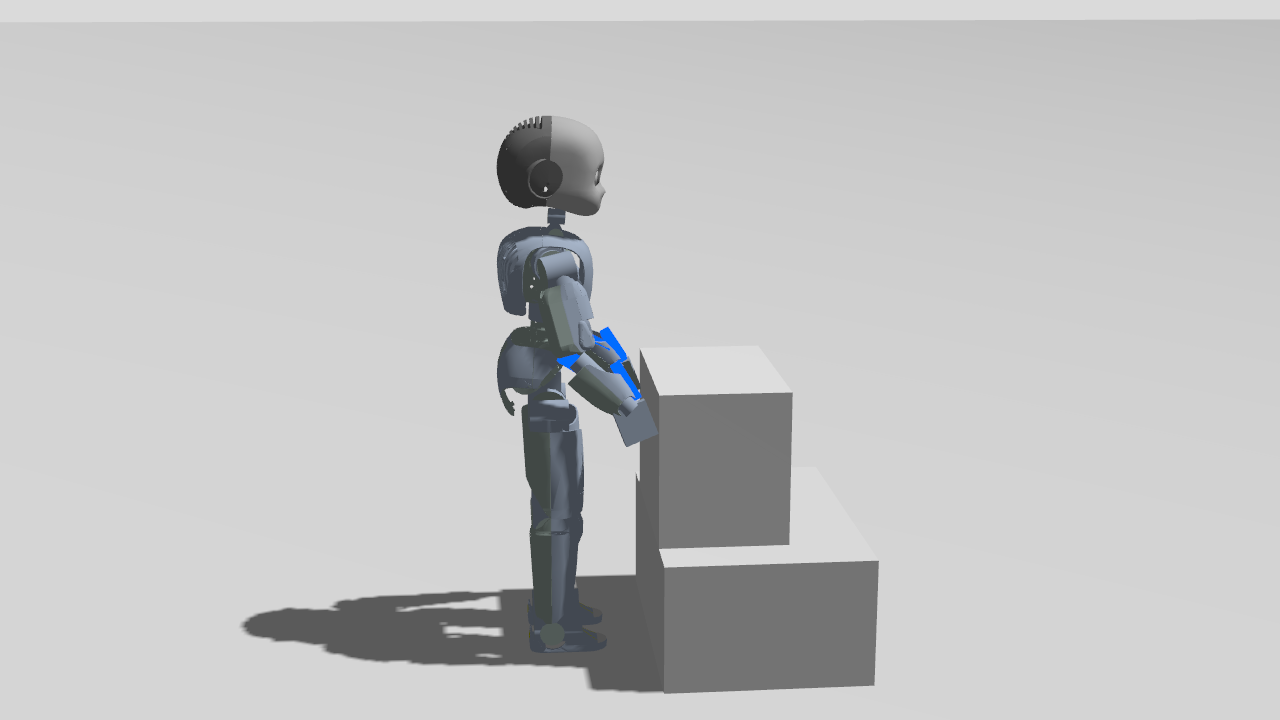
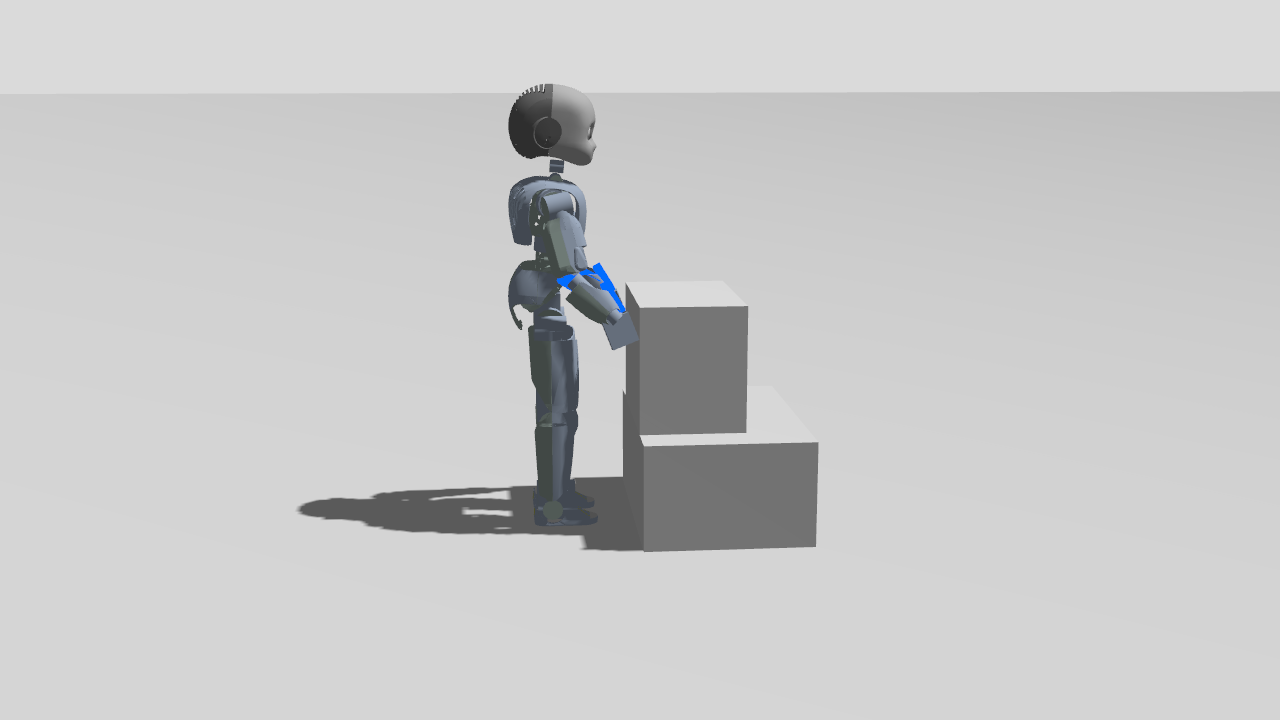
Fix release grasp video recording and add duration verification
The v2.1 release video was 0.04s (2 frames) because the camera recorder used
sim time while headless physics advanced slowly. Record with wall-clock time,
widen the side camera for full-body framing, and fail the release pipeline
unless the MP4 is at least 10s with visible contact-force arrows during HOLD.

Changed region(s): [[0.1875, 0.1222, 0.6875, 0.9778], [0.75, 0.0306, 1.0, 0.0917]]

diff --git a/scripts/verify_release_video.py b/scripts/verify_release_video.py
@@ -1,0 +1,146 @@
+#!/usr/bin/env python3
+"""Fail unless a release grasp video shows a full-duration, in-sim demo."""
+
+from __future__ import annotations
+
+import argparse
+import json
+import subprocess
+import sys
+import tempfile
+from pathlib import Path
+
+import numpy as np
+from PIL import Image
+
+MIN_DURATION_SECONDS = 10.0
+MIN_FRAME_COUNT = 200
+MIN_FILE_BYTES = 100_000
+MIN_HOLD_BLUE_PIXELS = 80
+
+
+def require(condition: bool, message: str) -> None:
+    if not condition:
+        raise SystemExit(f"RELEASE-VIDEO FAILURE: {message}")
+
+
+def ffprobe_field(path: Path, field: str) -> str:
+    result = subprocess.run(
+        [
+            "ffprobe",
+            "-v",
+            "error",
+            "-show_entries",
+            field,
+            "-of",
+            "default=noprint_wrappers=1:nokey=1",
+            str(path),
+        ],
+        check=False,
+        capture_output=True,
+        text=True,
+    )
+    require(result.returncode == 0, f"ffprobe failed for {path}: {result.stderr.strip()}")
+    return result.stdout.strip()
+
+
+def extract_frame(path: Path, timestamp_seconds: float, output: Path) -> None:
+    result = subprocess.run(
+        [
+            "ffmpeg",
+            "-y",
+            "-loglevel",
+            "error",
+            "-ss",
+            f"{timestamp_seconds:.3f}",
+            "-i",
+            str(path),
+            "-frames:v",
+            "1",
+            str(output),
+        ],
+        check=False,
+        capture_output=True,
+        text=True,
+    )
+    require(result.returncode == 0, f"ffmpeg frame extract failed: {result.stderr.strip()}")
+    require(output.is_file() and output.stat().st_size > 0, "extracted frame is empty")
+
+
+def blue_pixel_count(image: np.ndarray) -> int:
+    color = image.astype(np.int16)
+    blue = (
+        (color[:, :, 2] > 150)
+        & (color[:, :, 2] > color[:, :, 0] + 40)
+        & (color[:, :, 2] > color[:, :, 1] + 30)
+    )
+    return int(blue.sum())
+
+
+def foreground_bounds(image: np.ndarray) -> dict[str, int]:
+    gray = image.mean(axis=2)
+    mask = gray < 235
+    require(mask.any(), "frame is blank; robot and boxes are not visible")
+    ys, xs = np.where(mask)
+    return {
+        "x_min": int(xs.min()),
+        "x_max": int(xs.max()),
+        "y_min": int(ys.min()),
+        "y_max": int(ys.max()),
+    }
+
+
+def verify(path: Path) -> dict:
+    require(path.is_file(), f"missing video: {path}")
+    size_bytes = path.stat().st_size
+    require(size_bytes >= MIN_FILE_BYTES, f"video too small ({size_bytes} bytes)")
+
+    duration = float(ffprobe_field(path, "format=duration"))
+    frames = int(float(ffprobe_field(path, "stream=nb_frames")))
+    require(duration >= MIN_DURATION_SECONDS, f"duration {duration:.3f}s < {MIN_DURATION_SECONDS}s")
+    require(frames >= MIN_FRAME_COUNT, f"frame count {frames} < {MIN_FRAME_COUNT}")
+
+    hold_time = max(2.0, duration * 0.55)
+    with tempfile.TemporaryDirectory() as tmp_dir:
+        hold_frame = Path(tmp_dir) / "hold.png"
+        extract_frame(path, hold_time, hold_frame)
+        image = np.asarray(Image.open(hold_frame).convert("RGB"))
+        bounds = foreground_bounds(image)
+        height = bounds["y_max"] - bounds["y_min"] + 1
+        width = bounds["x_max"] - bounds["x_min"] + 1
+        require(height >= 300, f"scene height {height}px is too cropped for full robot")
+        require(width >= 250, f"scene width {width}px is too cropped for robot and boxes")
+
+        blue_pixels = blue_pixel_count(image)
+        require(
+            blue_pixels >= MIN_HOLD_BLUE_PIXELS,
+            f"expected contact-force arrows during HOLD; found {blue_pixels} blue pixels",
+        )
+
+    return {
+        "passed": True,
+        "path": str(path),
+        "size_bytes": size_bytes,
+        "duration_seconds": duration,
+        "frame_count": frames,
+        "hold_sample_seconds": hold_time,
+        "hold_blue_pixels": blue_pixels,
+        "hold_foreground_bounds": bounds,
+    }
+
+
+def main() -> None:
+    parser = argparse.ArgumentParser(description=__doc__)
+    parser.add_argument("video", type=Path)
+    parser.add_argument("--report", type=Path)
+    args = parser.parse_args()
+
+    report = verify(args.video)
+    if args.report is not None:
+        args.report.write_text(json.dumps(report, indent=2) + "\n")
+    print("RELEASE-VIDEO PASS")
+    print(json.dumps(report, indent=2))
+
+
+if __name__ == "__main__":
+    main()

diff --git a/tests/test_release_video.py b/tests/test_release_video.py
@@ -1,0 +1,47 @@
+#!/usr/bin/env python3
+"""Unit tests for release video verification thresholds."""
+
+from __future__ import annotations
+
+import subprocess
+import sys
+import tempfile
+import unittest
+from pathlib import Path
+
+ROOT = Path(__file__).resolve().parents[1]
+sys.path.insert(0, str(ROOT / "scripts"))
+
+from verify_release_video import MIN_DURATION_SECONDS, MIN_FRAME_COUNT, verify  # noqa: E402
+
+
+class ReleaseVideoVerifierTests(unittest.TestCase):
+    def test_rejects_short_clip(self) -> None:
+        with tempfile.TemporaryDirectory() as tmp_dir:
+            video = Path(tmp_dir) / "short.mp4"
+            subprocess.run(
+                [
+                    "ffmpeg",
+                    "-y",
+                    "-loglevel",
+                    "error",
+                    "-f",
+                    "lavfi",
+                    "-i",
+                    "color=c=black:s=1280x720:d=0.04",
+                    "-frames:v",
+                    "2",
+                    str(video),
+                ],
+                check=True,
+            )
+            with self.assertRaises(SystemExit):
+                verify(video)
+
+    def test_thresholds_are_sane(self) -> None:
+        self.assertGreaterEqual(MIN_DURATION_SECONDS, 10.0)
+        self.assertGreaterEqual(MIN_FRAME_COUNT, 200)
+
+
+if __name__ == "__main__":
+    unittest.main()